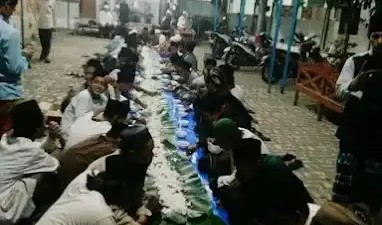
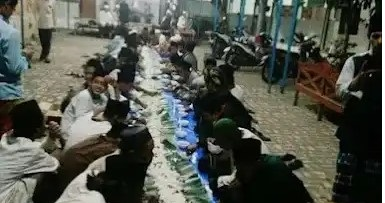
udatealittihadbaru

diff --git a/src/components/Home/featureSection.js b/src/components/Home/featureSection.js
@@ -58,7 +58,7 @@ const FeatureSection = () => {
                   href="tel:#"
                   className="transition-all duration-500ms ease-in-out hover:ease-in-out w-full flex items-center justify-center px-8 py-3 text-base font-medium rounded-md text-center bg-purple text-white hover:text-black border border-purple hover:bg-transparent md:text-lg md:px-10"
                 >
-                  Call Us Now
+                  Kontak
                 </a>
               </div>
               <div className="mt-3 sm:mt-0 sm:ml-3">
@@ -66,7 +66,7 @@ const FeatureSection = () => {
                   href="/gallery"
                   className="transition-all duration-500ms ease-in-out hover:ease-in-out w-full flex items-center justify-center px-8 py-3 border border-purple text-base font-medium rounded-md text-black hover:text-white bg-transparent hover:bg-purple md:py-3 md:text-lg md:px-10"
                 >
-                  View Gallery
+                  Galeri
                   <svg
                     className="w-3.5 h-3.5 ms-2 rtl:rotate-180"
                     aria-hidden="true"
@@ -163,7 +163,7 @@ const FeatureSection = () => {
               href="/contact/"
               className="transition-all duration-500ms ease-in-out hover:ease-in-out w-full flex items-center justify-center px-8 py-3 text-base font-medium rounded-md text-center bg-purple text-white hover:text-black border border-purple hover:bg-transparent md:text-lg md:px-10"
             >
-              Send Enquiry
+              Kirim Pertanyaan
             </a>
           </div>
         </div>
@@ -187,7 +187,7 @@ const FeatureSection = () => {
         <div className="mt-10 flex flex-row justify-space xxs:flex-col xs:flex-col sm:flex-row content-center justify-center align-middle text-center">
           <div className="w-1/3 bg-gradient-to-r from-pink to-purple p-8 rounded-xl m-5 xxs:w-full xs:w-full sm:w-1/3">
             <h3 className="text-black text-2xl">v1.0.0</h3>
-            <h4 className="mt-10 text-black opacity-70 text-xl">Released</h4>
+            <h4 className="mt-10 text-black opacity-70 text-xl">Dipublikasikan</h4>
           </div>
 
           <div className="w-1/3 bg-dp p-8 rounded-xl m-5 xxs:w-full xs:w-full sm:w-1/3">
@@ -206,11 +206,11 @@ const FeatureSection = () => {
       </Fade>
       
       <div className="mt-10 px-8">
-        <h2 className="text-black text-4xl font-semibold text-gradient bg-gradient-to-r from-pink to-purple">
+        {/* <h2 className="text-black text-4xl font-semibold text-gradient bg-gradient-to-r from-pink to-purple">
           {" "}
           Integrations
-        </h2>
-        <h3 className="text-black mt-5 font-bold text-6xl xxs:text-lg xs:text-xl sm:text-xl lg:text-6xl">
+        </h2> */}
+        {/* <h3 className="text-black mt-5 font-bold text-6xl xxs:text-lg xs:text-xl sm:text-xl lg:text-6xl">
           Discover, connect, and configure
         </h3>
         <p className="text-black opacity-70 font-normal mt-3 text-xs xxs:text-xs xs:text-xs sm:text-xs md:text-sm lg:text-lg">
@@ -223,15 +223,15 @@ const FeatureSection = () => {
           the release of Letraset sheets containing Lorem Ipsum passages, and
           more recently with desktop publishing software like Aldus PageMaker
           including versions of Lorem Ipsum.
-        </p>
+        </p> */}
         <div className="mt-5 sm:mt-8 sm:flex sm:justify-center lg:justify-start">
           <div className="rounded-md">
-            <a
+            {/* <a
               href="/contact/"
               className="transition-all duration-500ms ease-in-out hover:ease-in-out w-full flex items-center justify-center px-8 py-3 text-base font-medium rounded-md text-center bg-purple text-white hover:text-purple border border-purple hover:bg-transparent md:text-lg md:px-10"
             >
-              Send Enquiry
-            </a>
+              Kirim Pertanyaan
+            </a> */}
           </div>
         </div>
       </div>

diff --git a/src/pages/contact.js b/src/pages/contact.js
@@ -18,12 +18,12 @@ const Contact = () => {
       <div className="max-w-7xl mx-auto mt-10 flex text-white xxs:flex-col sm:flex-row">
         <Fade duration={1200}>
           <div className="bg-dp opacity-70 p-10 rounded-xl w-3/4 m-5 w-auto">
-            <h1 className="text-3xl text-white">CONTACT HOLO</h1>
+            <h1 className="text-3xl text-white">HUBUNGI KAMI</h1>
             <h2 className=" text-black text-gradient bg-gradient-to-r from-pink to-purple text-4xl font-bold mt-2 xxs:text-lg sm:text-2xl lg:text-4xl">
-              Gatsby Theme
+              PONDOK PESANTREN AL ITTIHAD
             </h2>
             <p className="text-lg mt-2 opacity-70 w-3/4 xxs:text-xs xxs:w-full sm:text-sm sm:w-3/4">
-              A stunning and minimal personalized website starter theme.
+              Website resmi Pondok Pesantren Al Ittihad sebagai media informasi, pendidikan Islam, dan dakwah Islami.
             </p>
 
             <div className="w-full shrink-0 grow-0 basis-auto lg:w-ful mt-10">
@@ -50,10 +50,10 @@ const Contact = () => {
                     </div>
                     <div className="ml-2 grow">
                       <p className="mb-2 font-bold underline decoration-pink">
-                        Phone
+                        Telepon
                       </p>
                       <p className="text-neutral-500 mb-2">
-                        <a href="tel:+#">(08) 9000 000</a>
+                        <a href="tel:+#">(+62) 858 9240 1837</a>
                       </p>
                     </div>
                   </div>
@@ -112,9 +112,9 @@ const Contact = () => {
                     </div>
                     <div className="ml-2 grow">
                       <p className="mb-2 font-bold underline decoration-pink">
-                        Location
+                        Alamat
                       </p>
-                      <p className="text-neutral-500 mb-2">Worldwide</p>
+                      <p className="text-neutral-500 mb-2">Cirumpak</p>
                     </div>
                   </div>
                 </div>
@@ -140,9 +140,9 @@ const Contact = () => {
                     </div>
                     <div className="ml-2 grow">
                       <p className="mb-2 font-bold underline decoration-pink">
-                        Opening Hours
+                        Jam Pelayanan
                       </p>
-                      <p className="text-neutral-500 mb-2">24/7</p>
+                      <p className="text-neutral-500 mb-2">Senin – Jumat Pukul 08.00 – 16.00 WIB</p>
                     </div>
                   </div>
                 </div>

diff --git a/src/components/Home/header.js b/src/components/Home/header.js
@@ -18,7 +18,7 @@ const Header = () => {
 
             <p className="mt-3 text-base text-black-70 sm:mt-5 sm:text-lg sm:max-w-xl sm:mx-auto md:mt-5 md:text-xl lg:mx-0">
               Pondok pesantren Al Ittihad Berawal dari kelompok kecil pengajian dan kajian Al-Qur’an di rumah sederhana, pesantren ini tumbuh perlahan menjadi lembaga yang dikenal luas karena keteguhan niat dan keikhlasan para pendirinya. Nama Al Ittihad, yang berarti persatuan, mencerminkan harapan agar seluruh santri dan masyarakat bersatu dalam ukhuwah Islamiyah, saling menguatkan dalam kebaikan dan ketakwaan.
-Kini, Pondok Pesantren Al Ittihad Cirumpak bukan sekadar lembaga pendidikan, melainkan simbol perjuangan, ketulusan, dan harapan. Dari tempat inilah lahir insan-insan yang siap meneruskan cahaya dakwah dan menjaga warisan keilmuan Islam hingga akhir zaman.
+              Kini, Pondok Pesantren Al Ittihad Cirumpak bukan sekadar lembaga pendidikan, melainkan simbol perjuangan, ketulusan, dan harapan. Dari tempat inilah lahir insan-insan yang siap meneruskan cahaya dakwah dan menjaga warisan keilmuan Islam hingga akhir zaman.
             </p>
 
             <div className="mt-5 sm:mt-8 sm:flex sm:justify-center lg:justify-start">
@@ -27,7 +27,7 @@ Kini, Pondok Pesantren Al Ittihad Cirumpak bukan sekadar lembaga pendidikan, mel
                   href="/contact"
                   className="transition-all duration-500ms ease-in-out hover:ease-in-out w-full flex items-center justify-center px-8 py-3 text-base font-medium rounded-md text-center bg-purple text-white hover:text-black border border-purple  hover:bg-transparent md:text-lg md:px-10 "
                 >
-                  Contact Us
+                  Kontak
                   <svg
                     className="w-3.5 h-3.5 ms-2 rtl:rotate-180"
                     aria-hidden="true"
@@ -50,7 +50,7 @@ Kini, Pondok Pesantren Al Ittihad Cirumpak bukan sekadar lembaga pendidikan, mel
                   href="/about"
                   className="transition-all duration-500ms ease-in-out hover:ease-in-out w-full flex items-center justify-center px-8 py-3 border border-purple text-base font-medium rounded-md text-black hover:text-white bg-transparent hover:bg-purple md:py-3 md:text-lg md:px-10"
                 >
-                  Get To Know Us
+                  Sekilas Tentang Kami
                 </a>
               </div>
             </div>

diff --git a/src/components/Home/testimonial.js b/src/components/Home/testimonial.js
@@ -5,17 +5,14 @@ const Testimonial = () => {
   return (
     <div className="max-w-7xl mx-auto px-8 mt-14 mb-14">
       <Fade bottom>
-        <div className="w-full h-full  flex flex-row justify-between align-middle bg-[url('../images/holographic-background-1.webp')] p-12 rounded-lg xxs:flex-col xs:flex-col sm:flex-row xxs:p-5 lg:p-12">
+        <div className="w-full h-full flex flex-row justify-between align-middle bg-[url('/images/holographic-background.webp')] bg-cover bg-center p-12 rounded-lg xxs:flex-col xs:flex-col sm:flex-row xxs:p-5 lg:p-12">
           <div className="w-3/4 xxs:w-full xs:w-full backdrop-blur-sm bg-white/30 p-10 rounded-lg lg:p-10">
             <div className="text-black font-semibold text-xl xxs:text-s xxs:font-normal sm:text-xl font-notoserif">
-              "Pesantren adalah pusat pendidikan Islam yang telah menjadi rujukan masyarakat selama berabad-abad. Di lingkungan ini, para santri mempelajari berbagai disiplin ilmu agama, mengasah karakter, dan membiasakan diri dengan nilai-nilai kebaikan.
-              Metode pembelajaran yang diwariskan para ulama menjadikan pesantren tetap relevan sebagai tempat membina generasi berakhlak mulia."
+              {/* "Al Miftahul Huda adalah tempat kegiatan keagamaan untuk masyarakat yang ingin belajar dan memperdalam ilmu agama dengan suasana yang santai dan nyaman. Di sini sering diadakan pengajian, dzikir, dan kegiatan yang membantu orang-orang lebih dekat kepada Allah." */}
             </div>
             <div className="mt-10">
-              <h3 className="text-black text-2xl font-smibold">Lorem Ipsum</h3>
-              <p className="text-black text-sm font-semibold opacity-50">
-                Google review
-              </p>
+              <h3 className="text-black text-2xl font-smibold"></h3>
+              <p className="text-black text-sm font-semibold opacity-50"></p>
             </div>
           </div>
         </div>
@@ -24,4 +21,4 @@ const Testimonial = () => {
   )
 }
 
-export default Testimonial 
+export default Testimonial

diff --git a/src/components/FeaturedBlog.js b/src/components/FeaturedBlog.js
@@ -26,7 +26,7 @@ const FeaturedBlog = () => {
               href="/blog/blog-post"
               className="transition-all duration-500ms ease-in-out hover:ease-in-out inline-flex justify-center items-center py-2.5 px-5 text-base font-medium text-center text-black hover:text-white rounded-lg border border-purple  hover:bg-purple"
             >
-              Continue Reading
+              Baca Selengkapnya
               <svg
                 className="w-3.5 h-3.5 ms-2 rtl:rotate-180"
                 aria-hidden="true"
@@ -57,7 +57,7 @@ const FeaturedBlog = () => {
                 href="/blog/blog-post-1"
                 className="transition-all duration-500ms ease-in-out hover:ease-in-out inline-flex justify-center items-center py-2.5 px-5 text-base font-medium text-center text-black hover:text-white  rounded-lg border border-purple  hover:bg-purple"
               >
-                Continue Reading
+                Baca Selengkapnya
                 <svg
                   className="w-3.5 h-3.5 ms-2 rtl:rotate-180"
                   aria-hidden="true"
@@ -87,7 +87,7 @@ const FeaturedBlog = () => {
                 href="/blog/blog-post-2"
                 className="transition-all duration-500ms ease-in-out hover:ease-in-out inline-flex justify-center items-center py-2.5 px-5 text-base font-medium text-center text-black hover:text-white  rounded-lg border border-purple  hover:bg-purple"
               >
-                Continue Reading
+                Baca Selengkapnya
                 <svg
                   className="w-3.5 h-3.5 ms-2 rtl:rotate-180"
                   aria-hidden="true"

diff --git a/src/components/about/aboutExtra.js b/src/components/about/aboutExtra.js
@@ -13,8 +13,8 @@ const AboutExtra = () => {
           generasi berakhlak mulia,berilmu, dan siap mengabdi kepada umat. 
           Dengan kurikulum terpadu, pembinaan akhlak yang intensif, serta  bimbingan para ustadz dan ustadzah 
           yang berpengalaman, Al Ittihad menjadi tempat tumbuhnya pribadi yang beradab, mandiri, dan berkarakter kuat.
-Lingkungan pesantren yang religius dan kondusif menjadikan setiap santri mampu berkembang secara spiritual, intelektual, dan sosial. 
-Di sini, ilmu tidak hanya dipelajari, tetapi diamalkan; akhlak tidak hanya diajarkan, tetapi dicontohkan.
+          Lingkungan pesantren yang religius dan kondusif menjadikan setiap santri mampu berkembang secara spiritual, intelektual, dan sosial. 
+          Di sini, ilmu tidak hanya dipelajari, tetapi diamalkan; akhlak tidak hanya diajarkan, tetapi dicontohkan.
         </p>
         <div className="mt-5 sm:mt-8 sm:flex sm:justify-start lg:justify-start">
           <div className="rounded-md">
@@ -22,7 +22,7 @@ Di sini, ilmu tidak hanya dipelajari, tetapi diamalkan; akhlak tidak hanya diaja
               href="/contact/"
               className="transition-all duration-500ms ease-in-out hover:ease-in-out w-full flex items-center justify-center px-8 py-3 text-base font-medium rounded-md text-center bg-purple text-white hover:text-black border border-purple  hover:bg-transparent md:text-lg md:px-10 "
             >
-              CONTACT US
+              HUBUNGI KAMI
               <svg
                 className="w-3.5 h-3.5 ms-2 rtl:rotate-180"
                 aria-hidden="true"

diff --git a/src/components/navbar.js b/src/components/navbar.js
@@ -54,7 +54,7 @@ const Navbar = () => {
                     href="tel:#"
                     className="transition-all duration-500ms ease-in-out hover:ease-in-out bg-transparent mt-5 py-2.5 px-4 text-base font-medium text-center text-black rounded-lg border border-purple hover:text-white border-black  hover:bg-purple"
                   >
-                    Call Us Now
+                    Call Us 
                   </a>
                 </div>
               </div>
@@ -122,7 +122,7 @@ const Navbar = () => {
                 href="tel:#"
                 className="transition-all duration-500ms ease-in-out hover:ease-in-out w-full flex items-center justify-center px-8 py-3 text-base font-medium rounded-md text-center bg-purple text-white hover:text-black border border-purple  hover:bg-transparent md:text-lg md:px-10 "
               >
-                Call Us Now
+                Call Us 
               </a>
             </div>
           </div>

diff --git a/src/pages/404.js b/src/pages/404.js
@@ -7,7 +7,7 @@ import Seo from "../components/seo"
 const NotFoundPage = () => (
   <Layout>
     <Seo title="404: Not found"
-         description="404: Not found"
+    description="404: Not found"
     />
     <div className="404-p">
     <h1>404: Not Found</h1>
